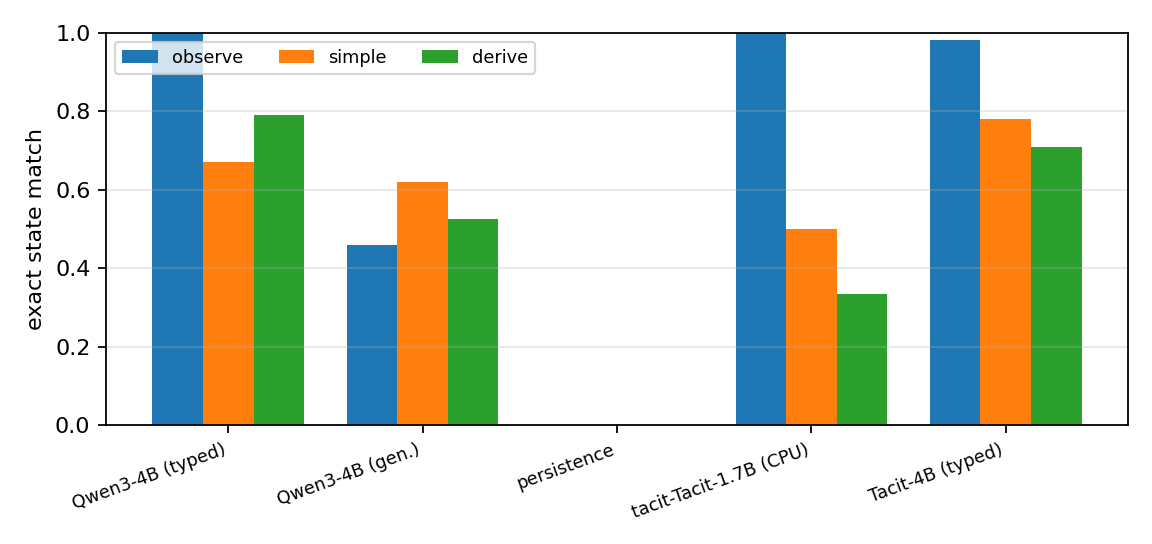
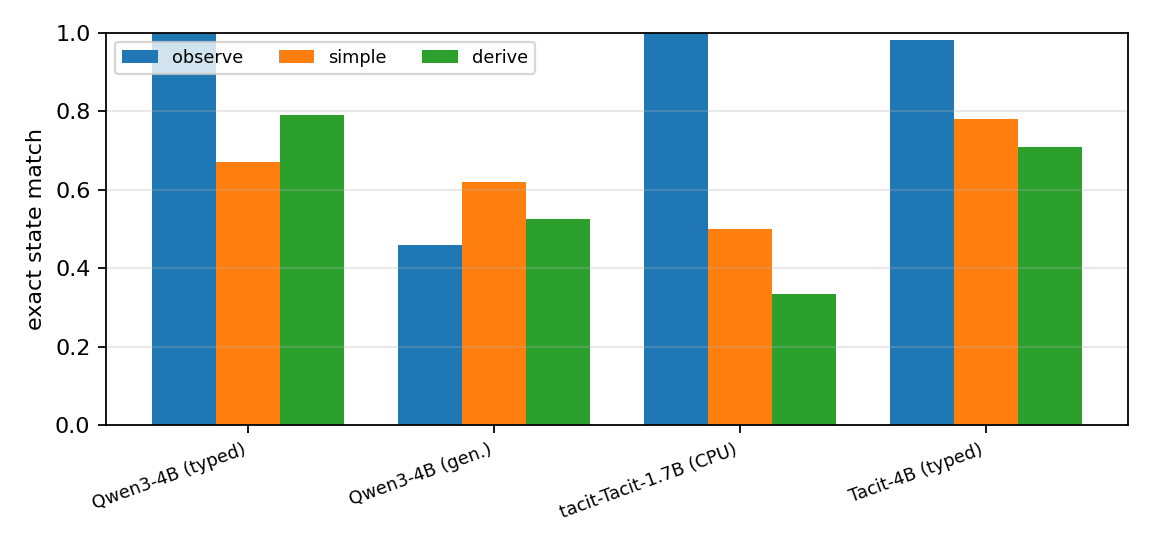
chore: refresh figure and DOCX after Qwen full run

diff --git a/jev-wm/scripts/analyze.py b/jev-wm/scripts/analyze.py
@@ -46,7 +46,7 @@ def main():
 
     # accuracy by kind
     if exp1:
-        names = list(exp1)
+        names = [n for n, v in exp1.items() if v.get("exact_by_action_kind", {}).get("observe") is not None]
         kinds = ["observe", "simple", "derive"]
         x = np.arange(len(names))
         w = 0.26
